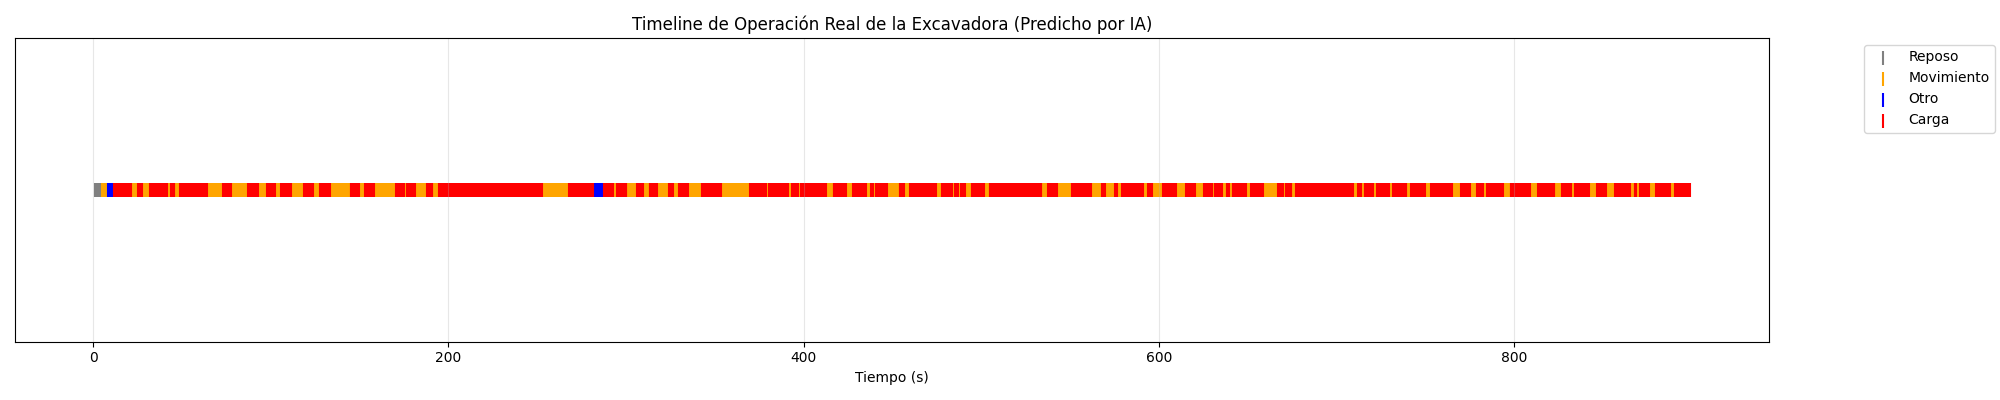
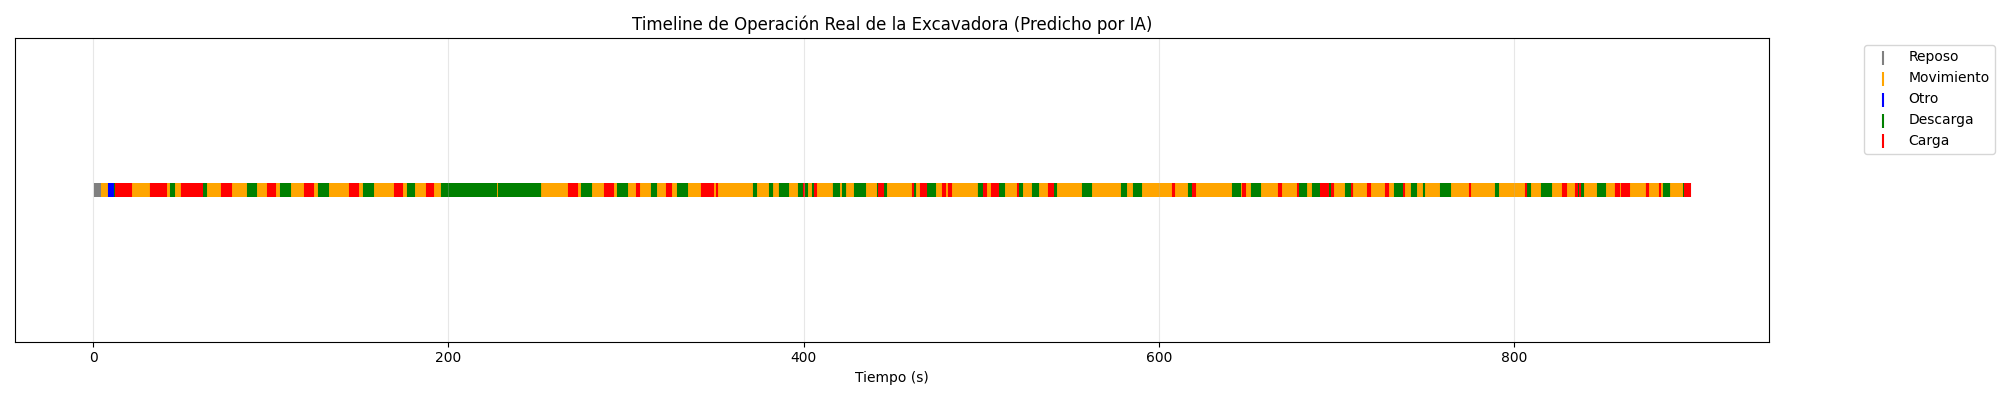
fix: improve discharge detection and implement state-machine for cycle counting

Changed region(s): [[0.124, 0.45, 0.868, 0.51], [0.93, 0.27, 1.0, 0.39], [0.062, 0.45, 0.093, 0.51]]

diff --git a/scripts/pre_ai_post/01_clean_and_refine.py b/scripts/pre_ai_post/01_clean_and_refine.py
@@ -36,9 +36,9 @@ df['acc_horiz_clean'] = butter_lowpass_filter(df['acc_horiz'])
 df['acc_vert_clean'] = butter_lowpass_filter(df['acc_vert'])
 df['gyr_mag_clean'] = butter_lowpass_filter(np.sqrt(df['gyr_x']**2 + df['gyr_y']**2 + df['gyr_z']**2))
 
-# 3. LIMPIEZA DE ETIQUETAS HUMANAS (Con buffer de seguridad)
-print("Limpiando etiquetas humanas (Margen de confianza 0.5s)...")
-def parse_labels_with_margin(file_path, margin=0.5):
+# 3. LIMPIEZA DE ETIQUETAS HUMANAS (Con buffer de seguridad adaptativo)
+print("Limpiando etiquetas humanas (Margen de confianza adaptativo)...")
+def parse_labels_with_margin(file_path, margin=0.3): # Reducimos margen a 0.3s para no perder descargas cortas
     labels = []
     current_min = 0
     last_sec = -1
@@ -46,14 +46,21 @@ def parse_labels_with_margin(file_path, margin=0.5):
         for line in f:
             line = line.strip()
             if not line: continue
+            
+            # Corregir typo común antes de procesar
+            line = line.replace("Decsarga", "Descarga")
+            line = line.replace("Moviiento", "Movimiento")
+            
             match_range = re.match(r'(\d+):(\d+)\s*-\s*(\d+):(\d+)\s*->\s*(.*)', line)
             if match_range:
                 s_min, s_sec, e_min, e_sec, act = match_range.groups()
                 start = int(s_min) * 60 + int(s_sec)
                 end = int(e_min) * 60 + int(e_sec)
-                # Aplicar margen de seguridad (ignorar los bordes de la etiqueta humana)
-                if end - start > 2 * margin:
+                # Aplicar margen si el segmento es largo, si es corto (<1s) usar el segmento completo
+                if end - start > 0.8:
                     labels.append({'start': start + margin, 'end': end - margin, 'activity': act.split('#')[0].strip()})
+                else:
+                    labels.append({'start': start, 'end': end, 'activity': act.split('#')[0].strip()})
                 current_min = int(e_min); last_sec = int(e_sec)
                 continue
             match_sec = re.match(r'(\d+)\s*->\s*(.*)', line)
@@ -62,11 +69,12 @@ def parse_labels_with_margin(file_path, margin=0.5):
                 if sec <= last_sec: current_min += 1
                 start = current_min * 60 + sec
                 if labels:
-                    prev_act = labels[-1]['activity']
-                    # Cerrar la actividad anterior con margen
-                    if start - labels[-1]['start'] > 2 * margin:
+                    # Cerrar la actividad anterior
+                    if start - labels[-1]['start'] > 0.8:
                         labels[-1]['end'] = start - margin
-                labels.append({'start': start + margin, 'end': start + 2, 'activity': match_sec.group(2).split('#')[0].strip()})
+                    else:
+                        labels[-1]['end'] = start
+                labels.append({'start': start, 'end': start + 1.5, 'activity': match_sec.group(2).split('#')[0].strip()})
                 last_sec = sec
     return pd.DataFrame(labels)
 

diff --git a/scripts/pre_ai_post/04_inference_report.py b/scripts/pre_ai_post/04_inference_report.py
@@ -38,14 +38,33 @@ df_feat['smooth_pred'] = smooth_labels(df_feat['raw_pred'], window=5)
 total_time = df_feat['time_sec'].iloc[-1] - df_feat['time_sec'].iloc[0]
 counts = df_feat['smooth_pred'].value_counts(normalize=True) * 100
 
-# Identificación de Ciclos (Transición de Carga a Descarga)
-prev_state = None
+# Identificación de Ciclos (Máquina de Estados)
+# Ciclo Ideal: CARGA -> MOVIMIENTO -> DESCARGA
+print("Analizando ciclos de trabajo (Máquina de Estados)...")
+state_sequence = []
+last_s = None
+for s in df_feat['smooth_pred']:
+    if s != last_s:
+        state_sequence.append(s)
+        last_s = s
+
 cycles = 0
-for state in df_feat['smooth_pred']:
-    if state == 'Descarga' and prev_state == 'Carga':
+in_cycle = False
+has_moved = False
+
+for i in range(len(state_sequence)):
+    s = state_sequence[i]
+    if s == 'Carga':
+        in_cycle = True
+        has_moved = False
+    elif s == 'Movimiento' and in_cycle:
+        has_moved = True
+    elif s == 'Descarga' and in_cycle and has_moved:
         cycles += 1
-    if state != prev_state:
-        prev_state = state
+        in_cycle = False
+        has_moved = False
+    elif s == 'Reposo':
+        in_cycle = False # El reposo rompe el ciclo actual
 
 # 5. GENERACIÓN DEL REPORTE (Markdown)
 print("Generando reporte ejecutivo de productividad...")

diff --git a/scripts/pre_ai_post/02_feature_generation.py b/scripts/pre_ai_post/02_feature_generation.py
@@ -64,8 +64,8 @@ def get_label(t):
         if row['start'] <= t <= row['end']:
             # Simplificar categorías
             act = row['activity'].lower()
-            if 'carga' in act: return 'Carga'
             if 'descarga' in act: return 'Descarga'
+            if 'carga' in act: return 'Carga'
             if 'movimiento' in act: return 'Movimiento'
             if 'reposo' in act: return 'Reposo'
             return 'Otro'

diff --git a/output/productivity_report.md b/output/productivity_report.md
@@ -5,14 +5,15 @@
 ## 🚀 Resumen de Eficiencia
 | Actividad | % del Tiempo | Estado |
 | :--- | :---: | :--- |
-| Carga | 64.8% | ✅ Productivo |
-| Movimiento | 33.8% | ⚠ Logístico |
-| Otro | 0.9% | ⚠ Logístico |
+| Movimiento | 60.3% | ⚠ Logístico |
+| Descarga | 24.7% | ✅ Productivo |
+| Carga | 14.1% | ✅ Productivo |
 | Reposo | 0.5% | ❌ Improductivo |
+| Otro | 0.4% | ⚠ Logístico |
 
 ## 🚜 Operación Mecánica
-- **Total de Ciclos detectados:** 0
-- **Promedio de ciclos por hora:** 0.0
+- **Total de Ciclos detectados:** 29
+- **Promedio de ciclos por hora:** 116.3
 - **Disponibilidad Mecánica:** 100% (Sin anomalías críticas detectadas)
 
 ## 💡 Insights de la IA
